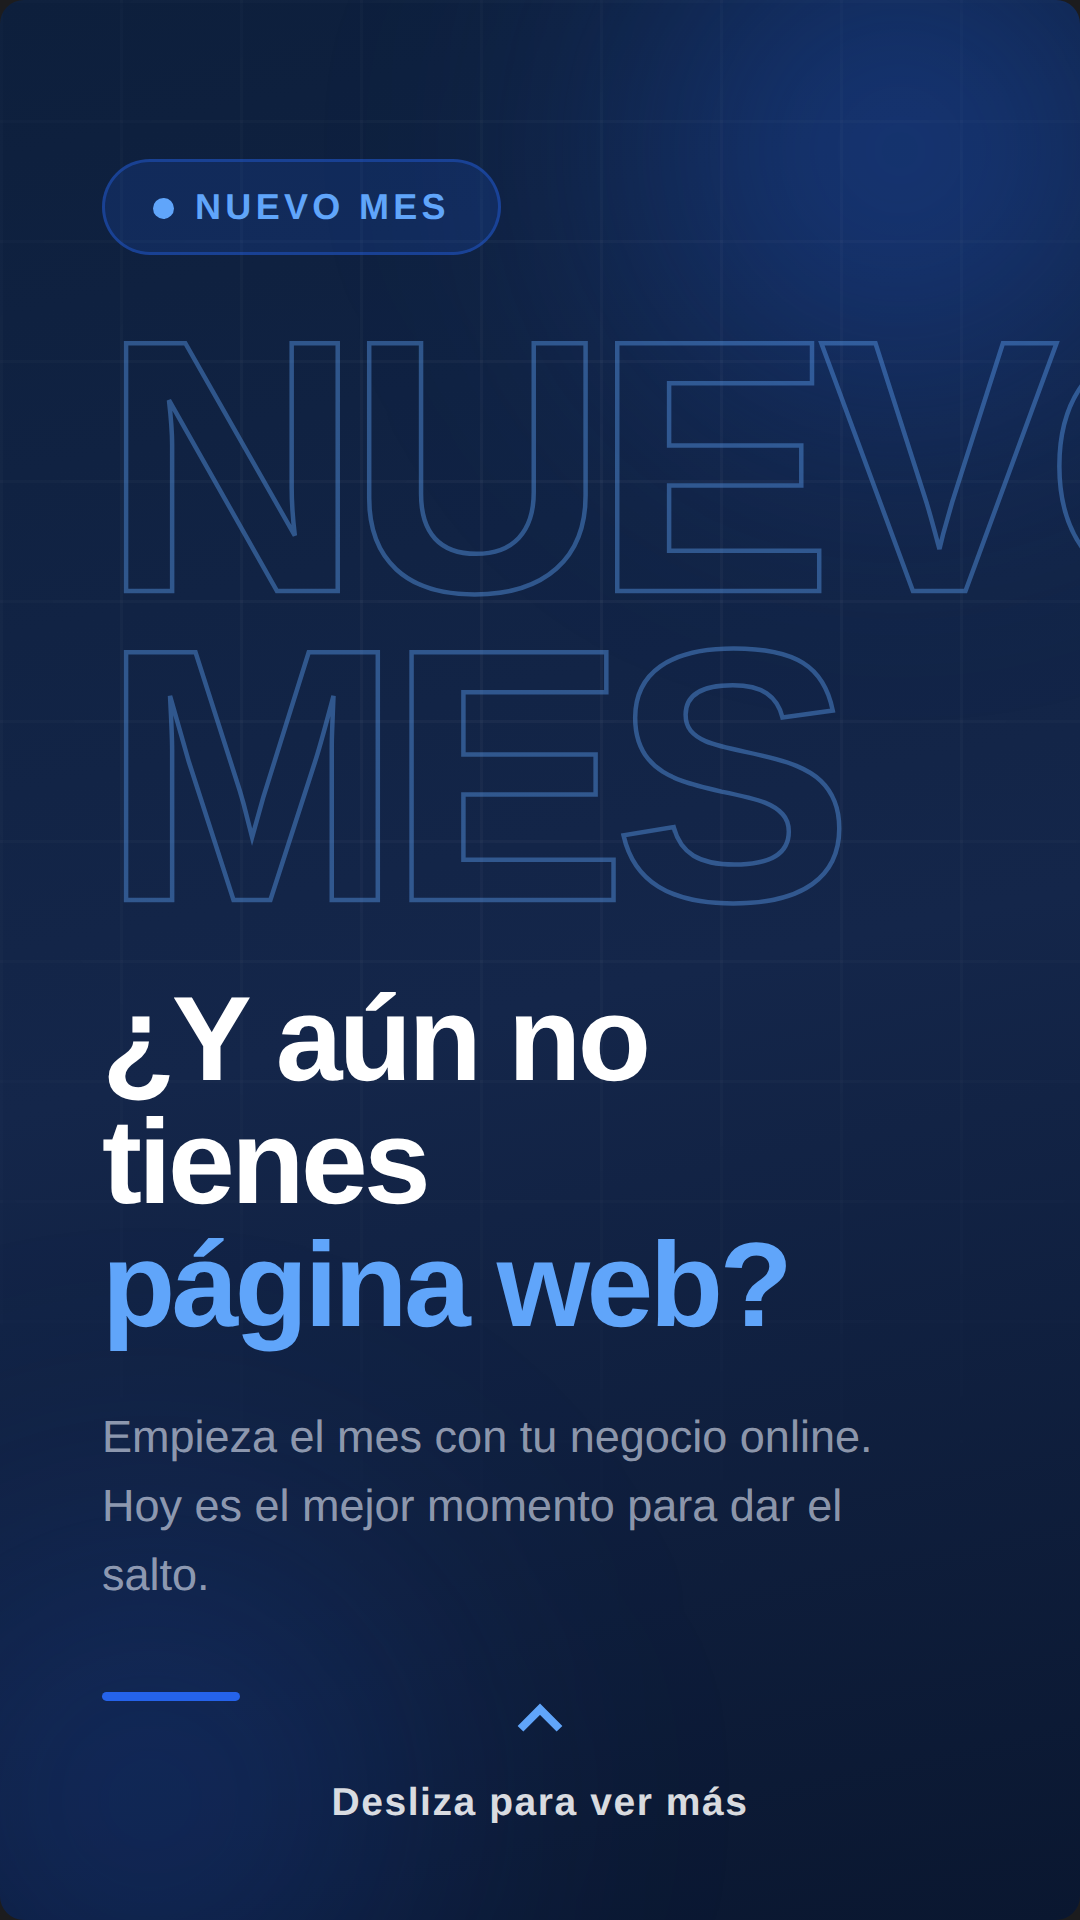
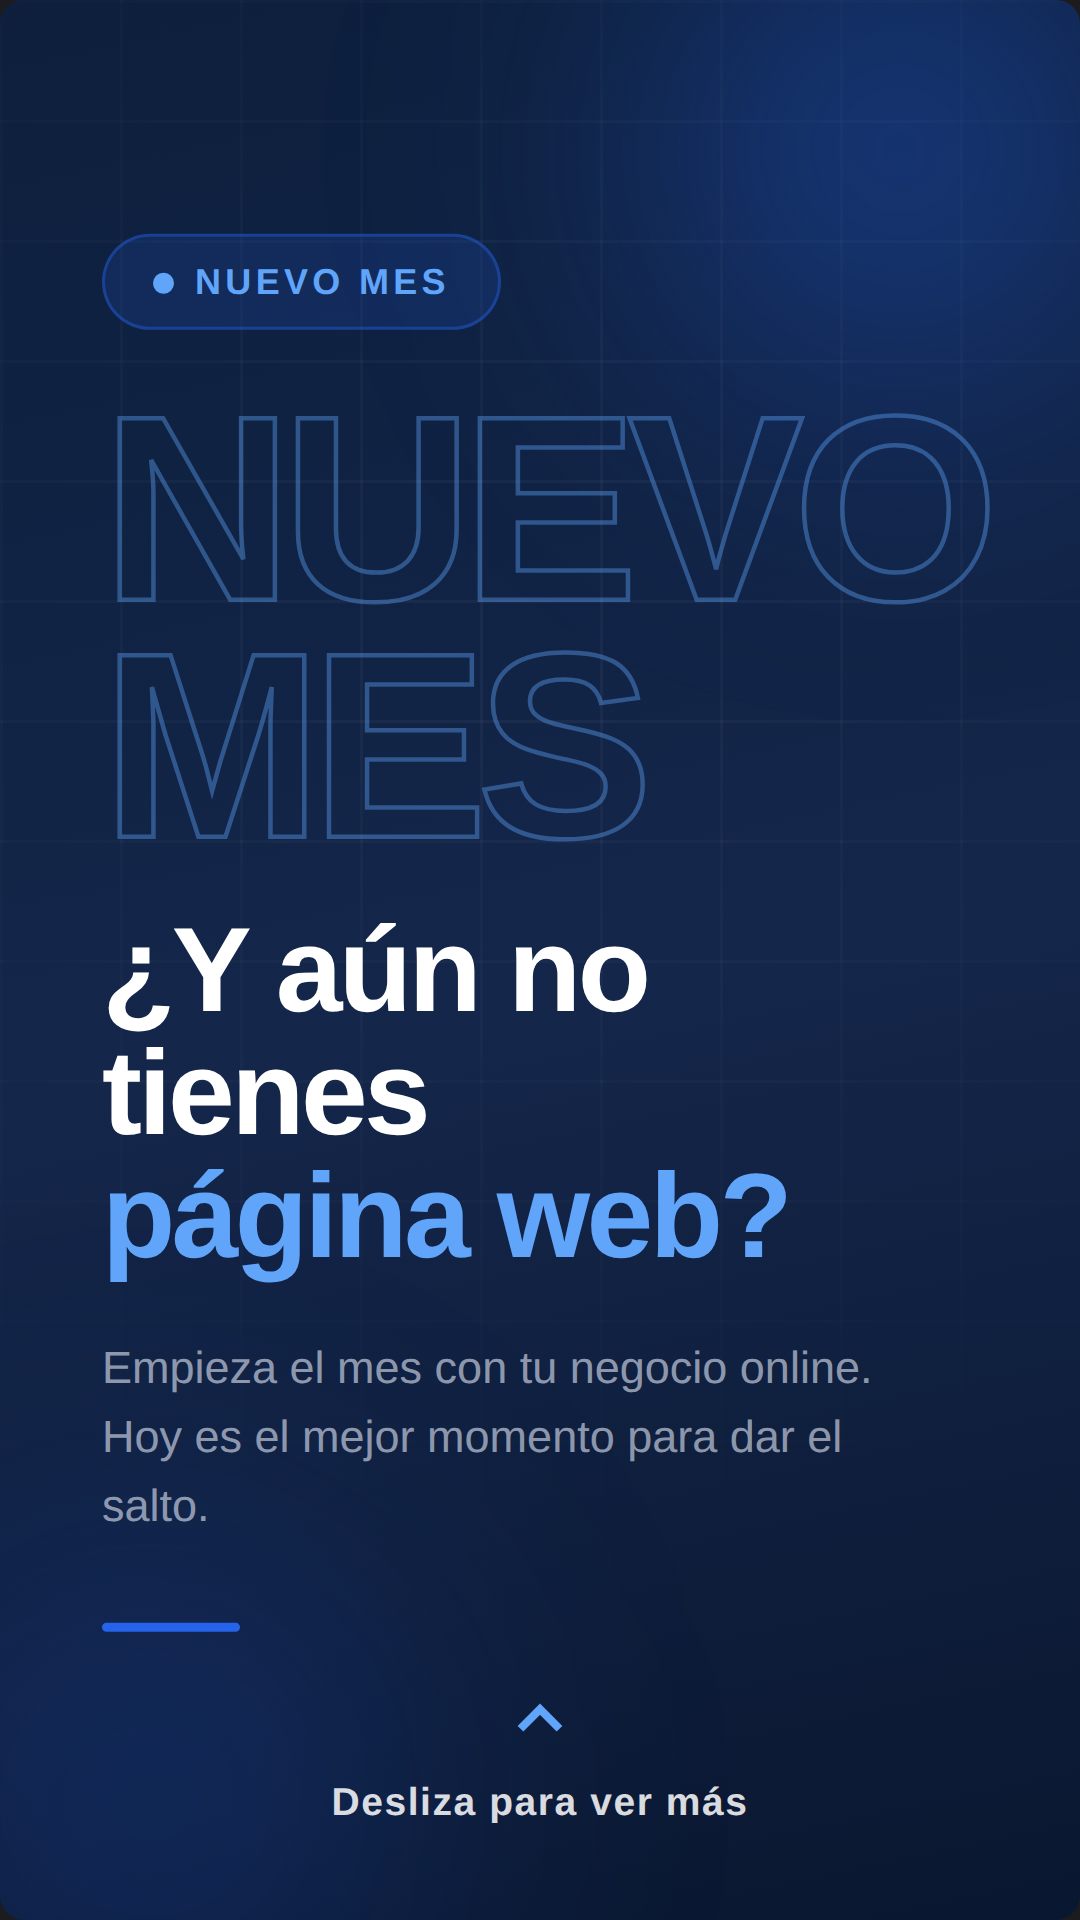
Fit background 'NUEVO MES' text fully within frame 1
Claude-Session: https://claude.ai/code/session_01BwG8Sr5B2t2yYbA8roGtjM

diff --git a/carruceles instagram/13-stories-nuevo-mes.html b/carruceles instagram/13-stories-nuevo-mes.html
@@ -87,11 +87,12 @@
   }
   .hook .month {
     font-family: 'Space Grotesk', sans-serif;
-    font-size: 120px; font-weight: 700; line-height: 0.86;
+    font-size: 88px; font-weight: 700; line-height: 0.9;
     letter-spacing: -0.04em;
     color: transparent;
     -webkit-text-stroke: 1.5px rgba(96,165,250,0.4);
     margin-bottom: -6px;
+    white-space: nowrap;
   }
   .hook h1 {
     font-family: 'Space Grotesk', sans-serif;
